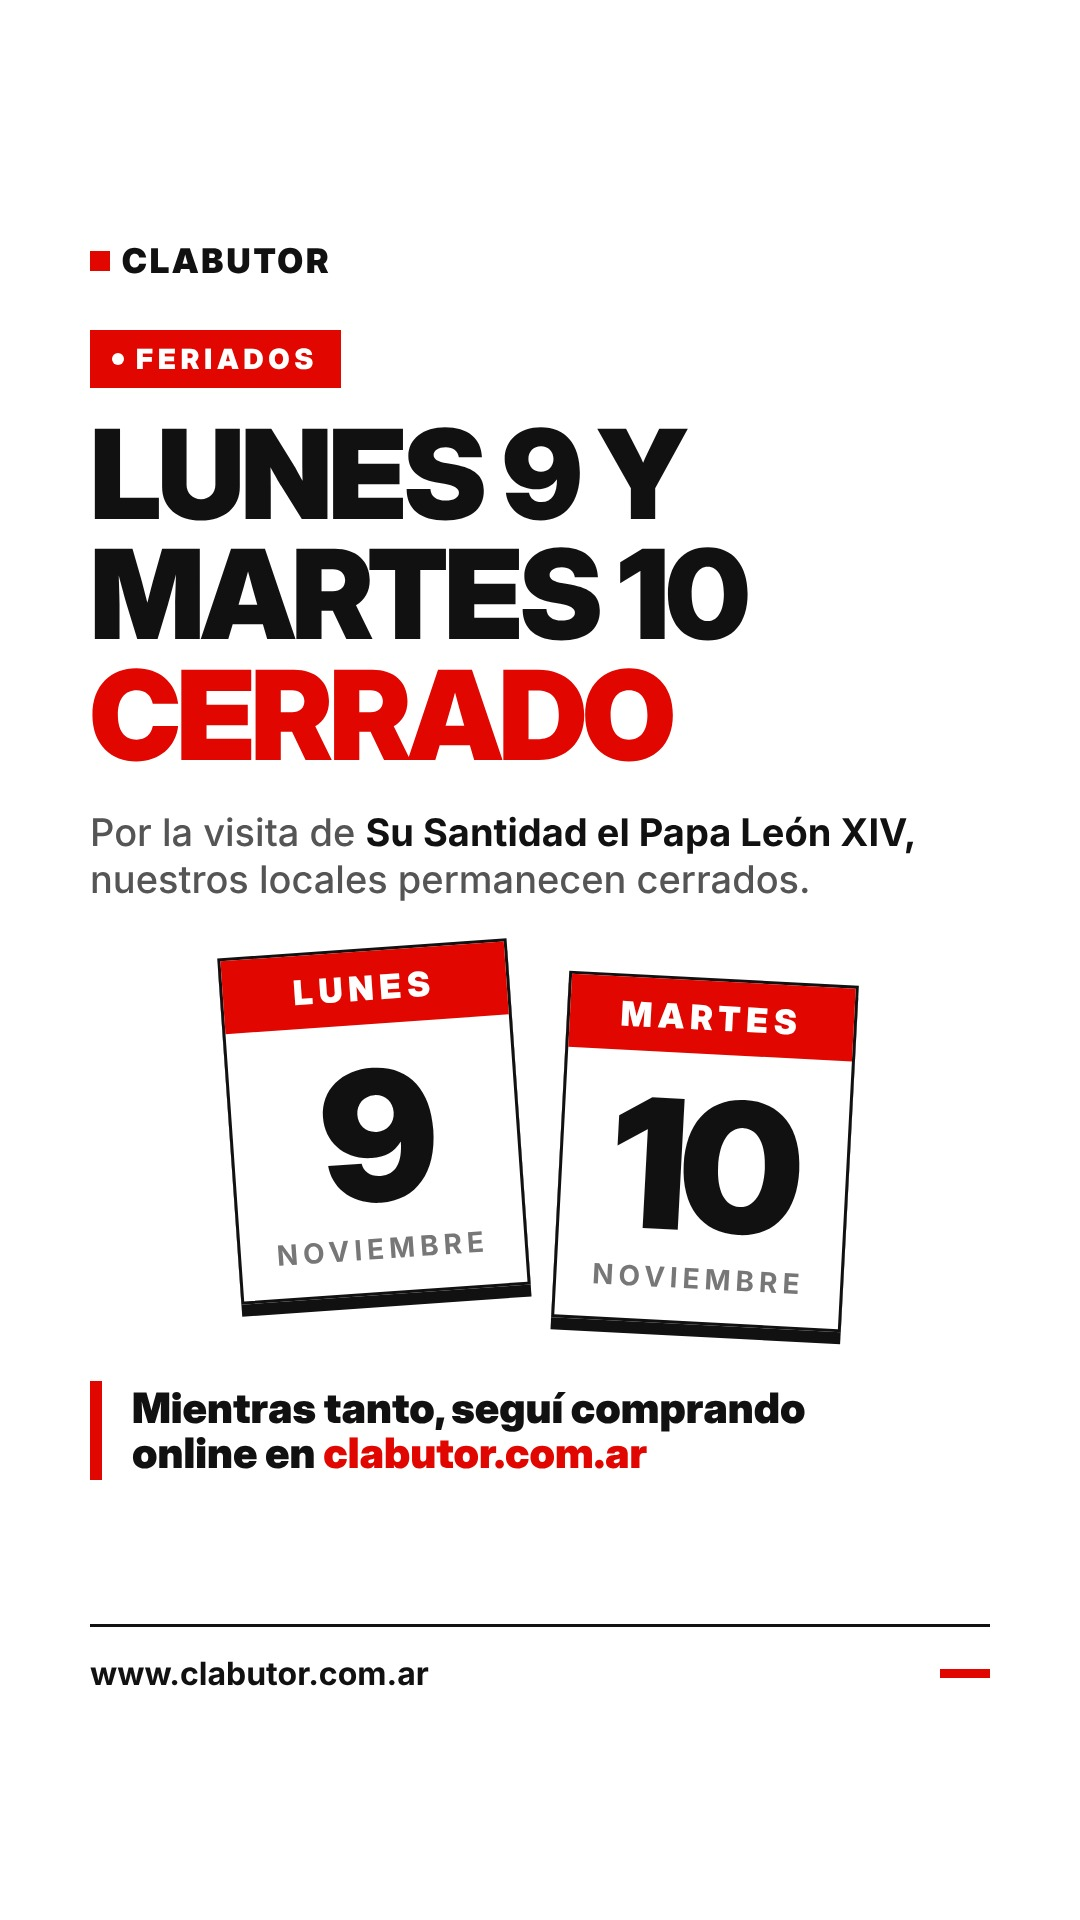
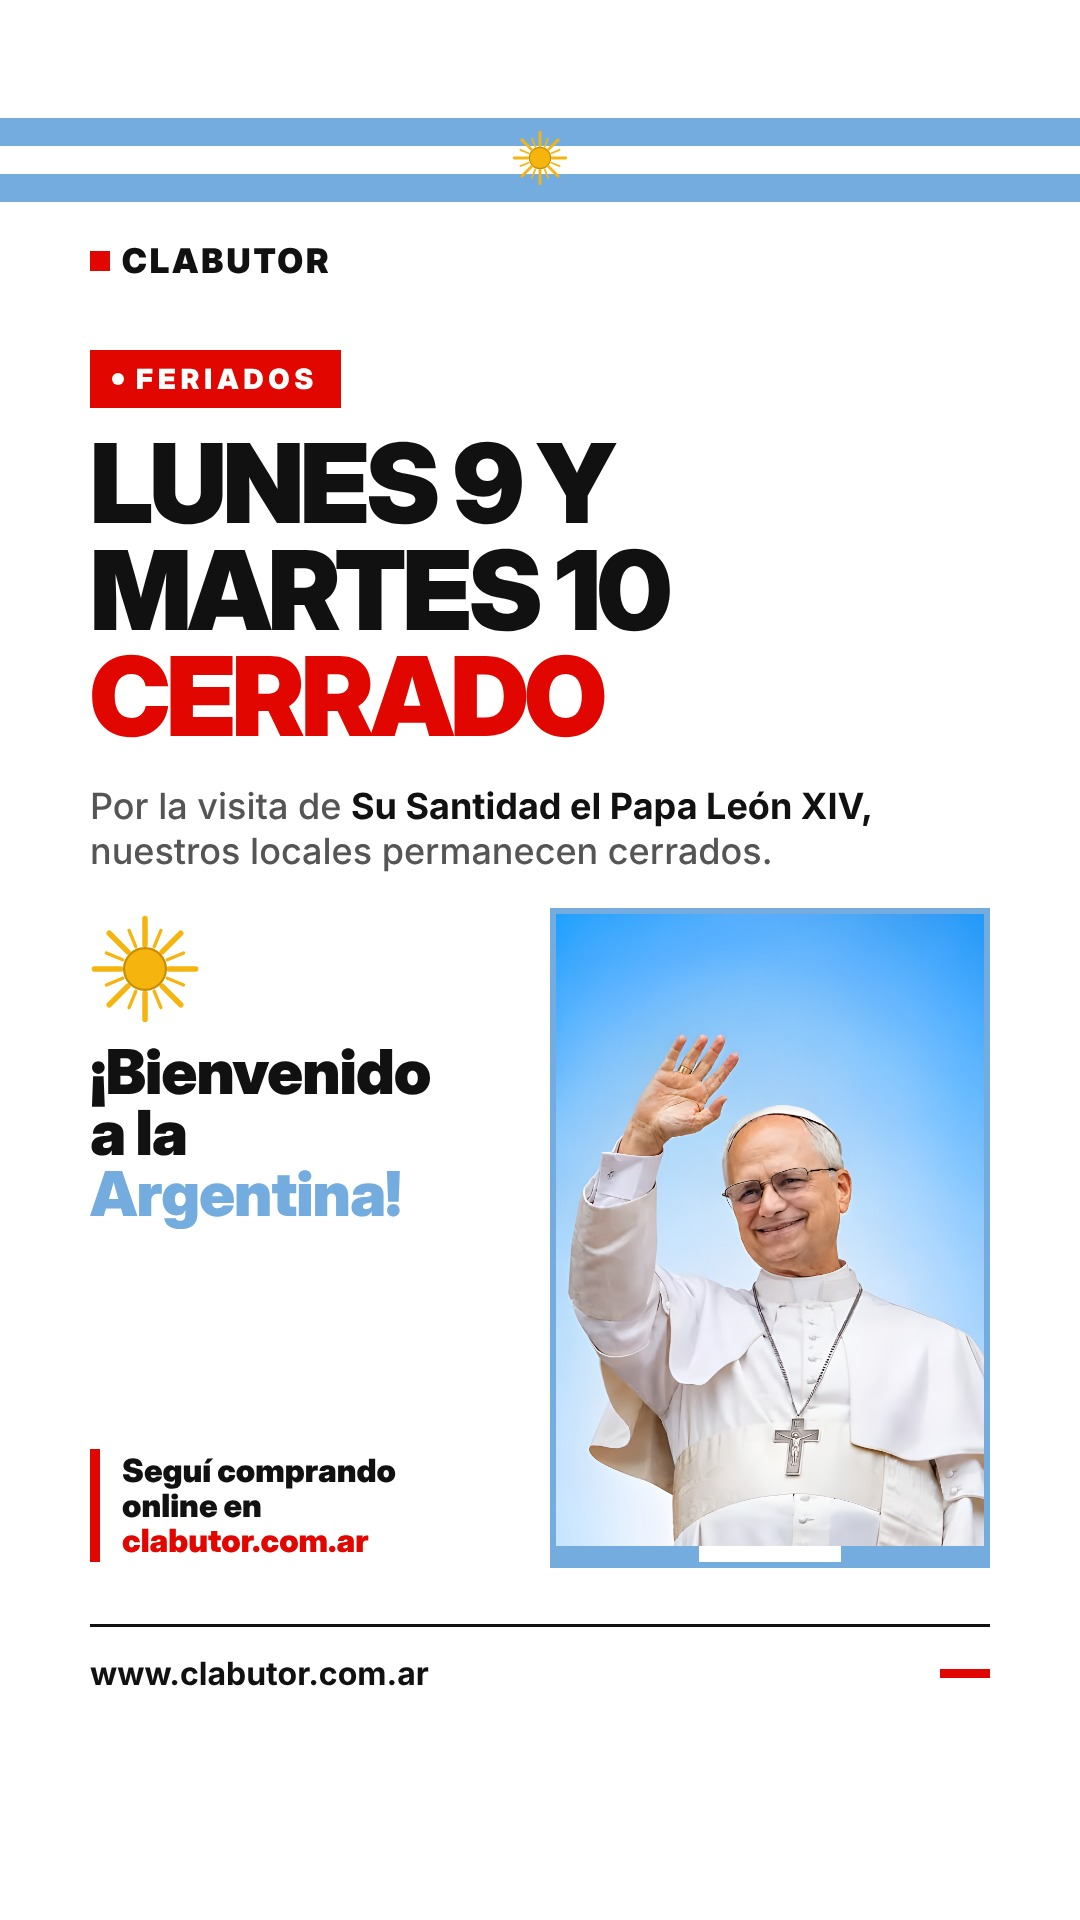
Historia feriados: estilo argentino con foto, colores Clabutor
Claude-Session: https://claude.ai/code/session_01XbJLpPx7CCs1ipZpL6GiAh

Changed region(s): [[0.0611, 0.1562, 0.9167, 0.8438], [0.0, 0.0625, 1.0, 0.125]]

diff --git a/disenos/posteos/historia-feriado-papa.py b/disenos/posteos/historia-feriado-papa.py
@@ -1,5 +1,8 @@
 """Historia — Feriados 9 y 10 de noviembre por la visita del Papa León XIV: locales cerrados.
-Colores Clabutor (no es campaña): fondo negro, blanco y rojo."""
+Colores Clabutor (blanco, negro y rojo) + toque argentino (celeste y blanco, Sol de Mayo)
+EXCLUSIVO de esta historia. Foto provista por el cliente."""
+
+import math
 
 ID = "historia-feriado-papa"
 FORMATO = "historia"
@@ -7,27 +10,56 @@ CINTA = None
 RUBRO = ""
 TEXTO = ""
 ROJO = "#E10600"
+CELESTE = "#74ACDF"
+SOL = "#F6B40E"
 
 
-def hoja(dia, nombre):
-    return f'''<div style="background:#fff;color:#111;width:290px;border:3px solid #111;box-shadow:0 12px 0 #111">
-  <div style="background:{ROJO};color:#fff;font-family:Titular;font-weight:900;font-size:34px;letter-spacing:6px;text-align:center;padding:16px 0">{nombre}</div>
-  <div style="font-family:Titular;font-weight:900;font-size:180px;line-height:1;letter-spacing:-8px;text-align:center;padding:22px 0 6px">{dia}</div>
-  <div style="font-weight:700;font-size:28px;letter-spacing:5px;text-align:center;color:#777;padding-bottom:26px">NOVIEMBRE</div>
+def sol(tam=120):
+    rayos = ""
+    for i in range(16):
+        a = math.radians(i * 22.5)
+        largo = 46 if i % 2 == 0 else 38
+        x1, y1 = 50 + 22 * math.cos(a), 50 + 22 * math.sin(a)
+        x2, y2 = 50 + largo * math.cos(a), 50 + largo * math.sin(a)
+        rayos += f'<line x1="{x1:.1f}" y1="{y1:.1f}" x2="{x2:.1f}" y2="{y2:.1f}" stroke="{SOL}" stroke-width="{5 if i % 2 == 0 else 3}" stroke-linecap="round"/>'
+    return (f'<svg width="{tam}" height="{tam}" viewBox="0 0 100 100">{rayos}'
+            f'<circle cx="50" cy="50" r="19" fill="{SOL}"/><circle cx="50" cy="50" r="19" fill="none" stroke="#C98E00" stroke-width="2"/></svg>')
+
+
+def franja_argentina():
+    """Bandera como cinta superior: celeste - blanco (con sol) - celeste."""
+    return f'''<div style="position:fixed;left:0;right:0;top:118px;height:84px;display:flex;flex-direction:column">
+  <div style="flex:1;background:{CELESTE}"></div>
+  <div style="flex:1;background:#fff;position:relative">
+    <div style="position:absolute;left:50%;top:50%;transform:translate(-50%,-50%)">{sol(56)}</div>
+  </div>
+  <div style="flex:1;background:{CELESTE}"></div>
 </div>'''
 
 
 def placas(g):
+    foto = g.AQUI / "fotos" / "papa-leon-xiv.jpg"
+    if not foto.exists():
+        foto = g.AQUI / "fotos" / "papa-leon-xiv-original.png"
     info = f'''
-<div class="pildora"><i></i>FERIADOS</div>
-<h1 style="font-size:124px;margin-top:26px">Lunes 9 y<br>martes 10<br><em>cerrado</em></h1>
-<p class="bajada" style="font-size:38px">Por la visita de <b>Su Santidad el Papa León XIV,</b><br>nuestros locales permanecen cerrados.</p>
-<div style="display:flex;justify-content:center;gap:40px;margin-top:44px">
-  <div style="transform:rotate(-4deg)">{hoja(9, "LUNES")}</div>
-  <div style="transform:rotate(3deg);margin-top:30px">{hoja(10, "MARTES")}</div>
-</div>
-<div style="margin-top:56px;border-left:12px solid {ROJO};padding:4px 0 4px 30px">
-  <div style="font-family:Titular;font-weight:900;font-size:42px;line-height:1.08">Mientras tanto, seguí comprando<br>online en <span style="color:{ROJO}">clabutor.com.ar</span></div>
+{franja_argentina()}
+<div class="pildora" style="margin-top:20px"><i></i>FERIADOS</div>
+<h1 style="font-size:110px;margin-top:22px">Lunes 9 y<br>martes 10<br><em>cerrado</em></h1>
+<p class="bajada" style="font-size:36px">Por la visita de <b>Su Santidad el Papa León XIV,</b><br>nuestros locales permanecen cerrados.</p>
+<div style="display:flex;gap:30px;margin-top:34px;height:660px">
+  <div style="flex:1;display:flex;flex-direction:column;justify-content:space-between;padding:6px 0">
+    <div>
+      {sol(110)}
+      <div style="font-family:Titular;font-weight:900;font-size:62px;line-height:.98;letter-spacing:-1px;margin-top:14px">¡Bienvenido<br>a la<br><span style="color:{CELESTE}">Argentina!</span></div>
+    </div>
+    <div style="border-left:10px solid {ROJO};padding:4px 0 4px 22px">
+      <div style="font-family:Titular;font-weight:900;font-size:32px;line-height:1.1">Seguí comprando<br>online en<br><span style="color:{ROJO}">clabutor.com.ar</span></div>
+    </div>
+  </div>
+  <div style="width:440px;position:relative;border:6px solid {CELESTE};overflow:hidden;flex:none">
+    <img src="../../fotos/{foto.name}" style="width:100%;height:100%;object-fit:cover;object-position:center top;display:block">
+    <div style="position:absolute;left:0;right:0;bottom:0;height:16px;display:flex"><div style="flex:1;background:{CELESTE}"></div><div style="flex:1;background:#fff"></div><div style="flex:1;background:{CELESTE}"></div></div>
+  </div>
 </div>
 '''
     return [("blanca colores-marca", info)]
